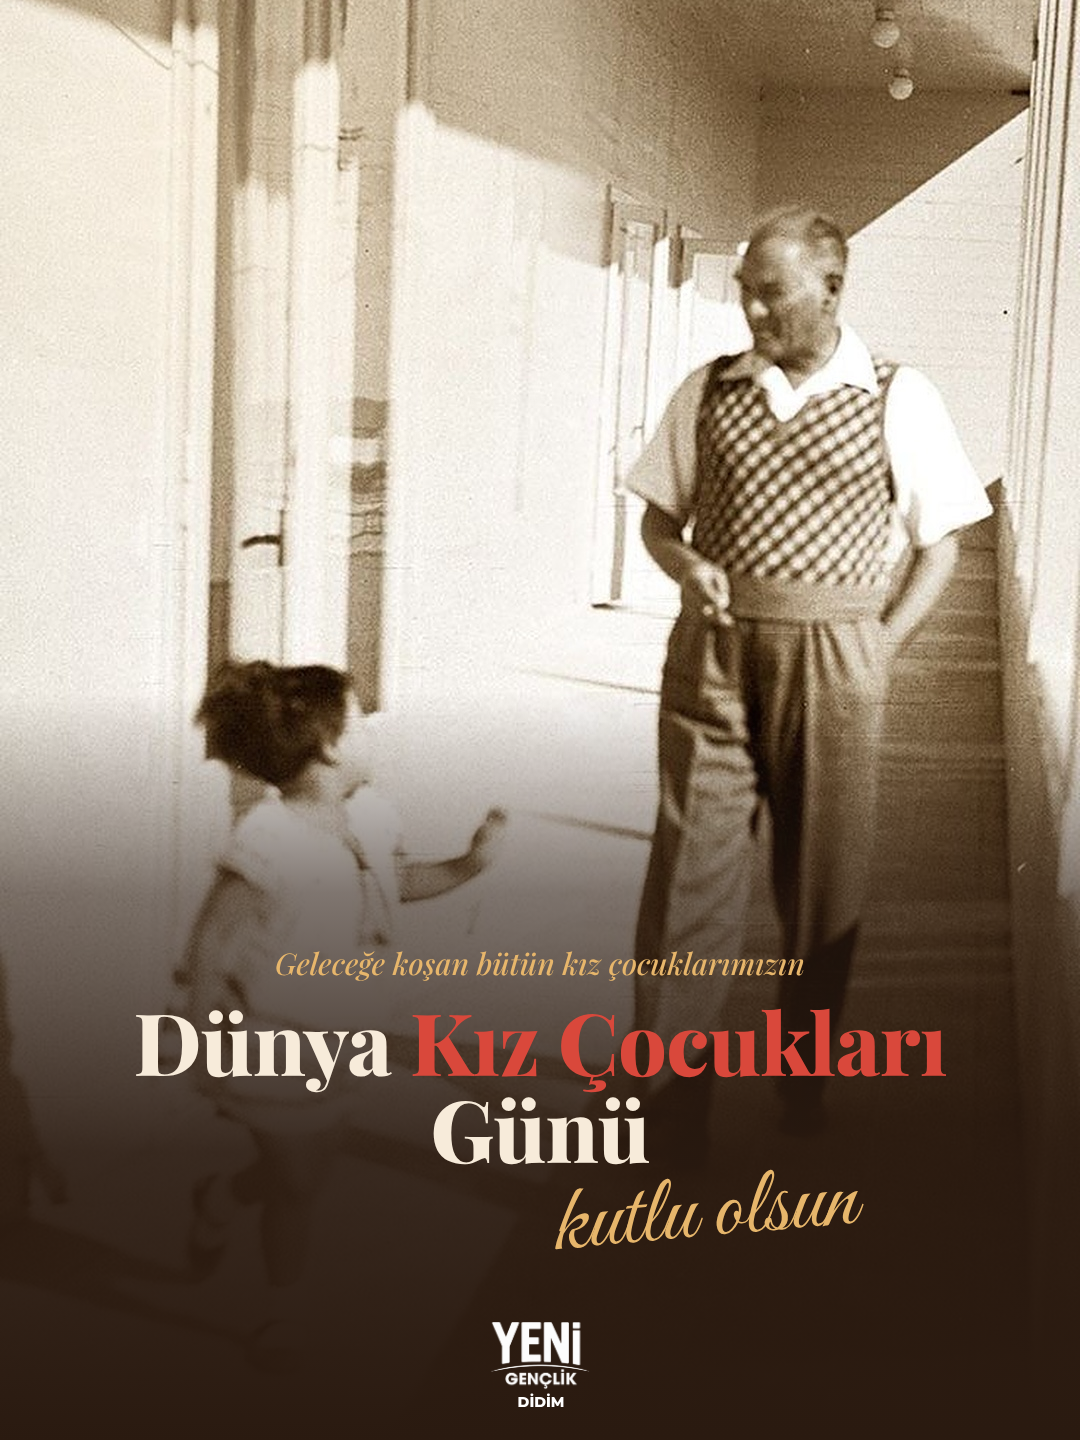
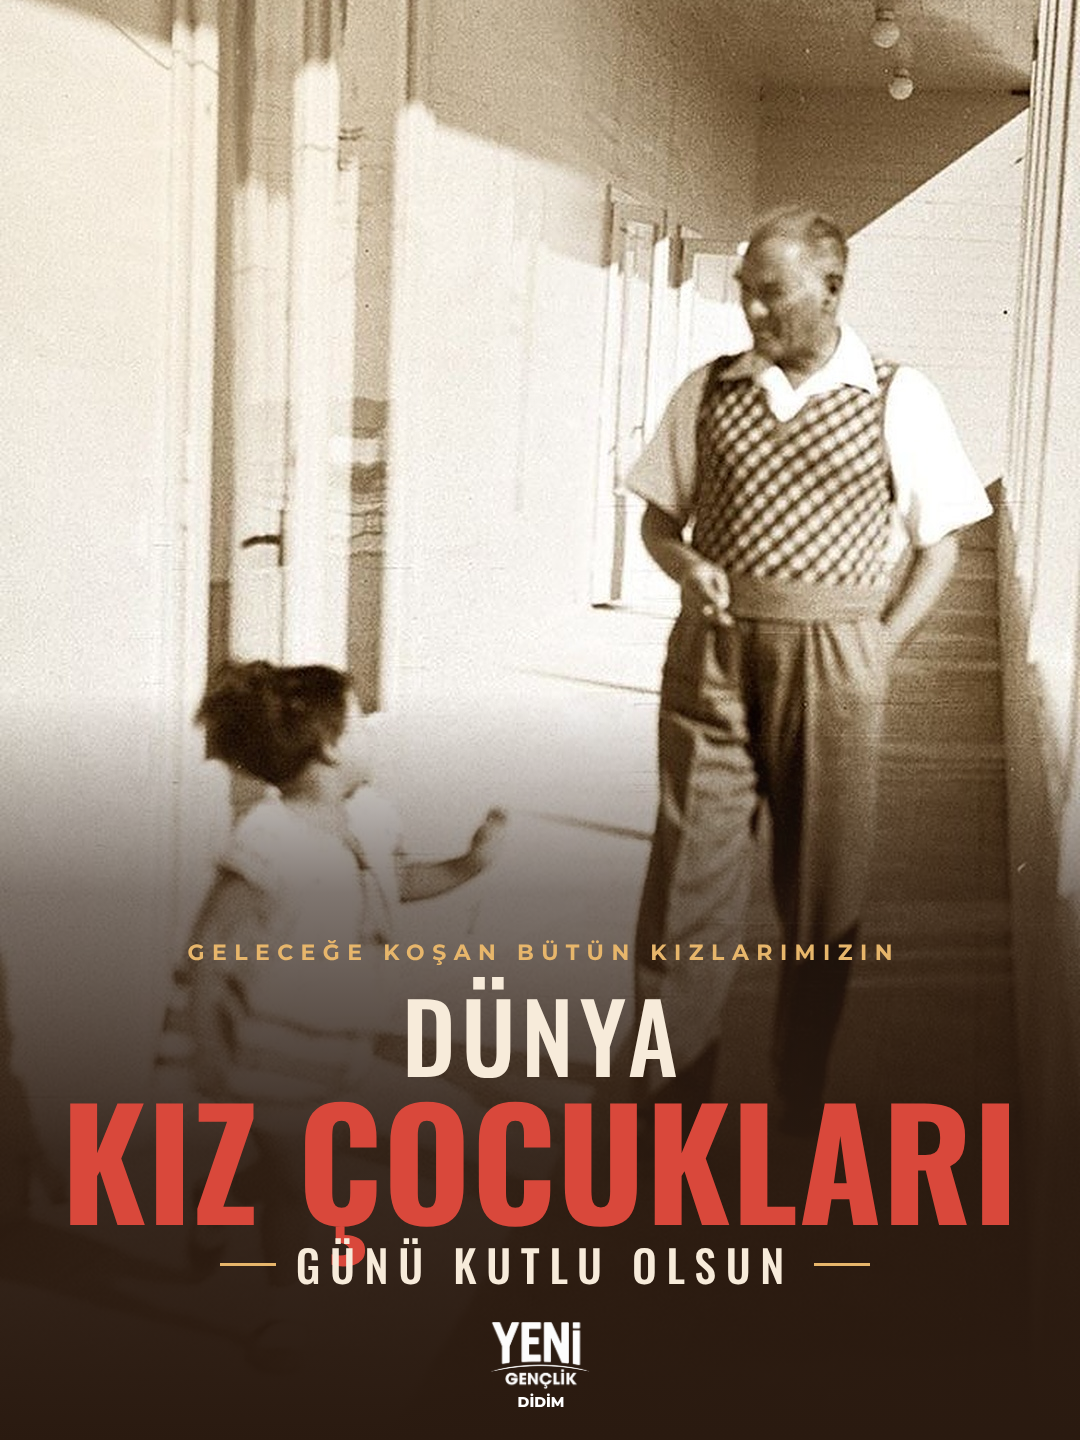
Didim 11 Ekim görseli: kalın afiş yazı stili
Claude-Session: https://claude.ai/code/session_01SatttGbgBLoCnk9KGLypWv

Changed region(s): [[0.0611, 0.6562, 0.9472, 0.9062]]

diff --git a/tasarim/kiz-cocuklari/koridor-didim.html b/tasarim/kiz-cocuklari/koridor-didim.html
@@ -1,6 +1,7 @@
 <!doctype html><html lang="tr"><meta charset="utf-8">
 <style>
-@font-face{font-family:Baslik;src:url(../fontlar-gecici/PlayfairDisplay-800.ttf)}
+@font-face{font-family:Afis;src:url(../fontlar-gecici/Oswald-700.ttf)}
+@font-face{font-family:AfisO;src:url(../fontlar-gecici/Oswald-500.ttf)}
 @font-face{font-family:BaslikI;src:url(../fontlar-gecici/PlayfairDisplay-500i.ttf)}
 @font-face{font-family:El;src:url(../fontlar-gecici/GreatVibes.ttf)}
 @font-face{font-family:Kucuk;src:url(../fontlar-gecici/Montserrat-700.ttf)}
@@ -23,12 +24,12 @@ body{position:relative;color:var(--krem)}
 .ust{position:absolute;left:64px;top:64px;font:700 22px/1 Kucuk;letter-spacing:.42em;color:var(--kahve);
   background:var(--krem);padding:14px 18px 14px 22px;border-radius:4px}
 
-.metin{position:absolute;left:0;right:0;top:948px;text-align:center}
-.metin .davet{font:30px/1 BaslikI;color:var(--altin)}
-.metin .b1{margin-top:20px;font:800 86px/1 Baslik;letter-spacing:-.01em}
-.metin .b2{font:800 86px/1.02 Baslik;letter-spacing:-.01em}
-.metin .b2 em{font-style:normal;color:var(--kiremit)}
-.metin .el{margin-top:-6px;font:96px/1 El;color:var(--altin);margin-left:330px;transform:rotate(-5deg)}
+.metin{position:absolute;left:0;right:0;top:942px;text-align:center}
+.metin .davet{font:700 22px/1 Kucuk;letter-spacing:.34em;padding-left:.34em;color:var(--altin)}
+.metin .b1{margin-top:22px;font:96px/1 AfisO;letter-spacing:.06em;padding-left:.06em}
+.metin .b2{margin-top:4px;font:150px/.95 Afis;letter-spacing:.005em;color:var(--kiremit)}
+.metin .b3{margin-top:14px;display:inline-flex;align-items:center;gap:20px;font:44px/1 AfisO;letter-spacing:.22em;padding-left:.22em}
+.metin .b3 i{width:56px;height:3px;background:var(--altin)}
 
 .logo-kutu{position:absolute;left:50%;bottom:34px;transform:translateX(-50%)}
 .logo{position:relative;width:835px;height:705px;zoom:.12}
@@ -43,10 +44,10 @@ body{position:relative;color:var(--krem)}
 
 
 <div class="metin">
-  <div class="davet">Geleceğe koşan bütün kız çocuklarımızın</div>
-  <div class="b1">Dünya <em style="font-style:normal;color:var(--kiremit)">Kız Çocukları</em></div>
-  <div class="b2">Günü</div>
-  <div class="el">kutlu olsun</div>
+  <div class="davet">GELECEĞE KOŞAN BÜTÜN KIZLARIMIZIN</div>
+  <div class="b1">DÜNYA</div>
+  <div class="b2">KIZ ÇOCUKLARI</div>
+  <div class="b3"><i></i>GÜNÜ KUTLU OLSUN<i></i></div>
 </div>
 
 <div class="logo-kutu"><div class="logo"><img src="../varliklar/yeni-genclik-beyaz.png"><div class="sehir">DİDİM</div></div></div>
